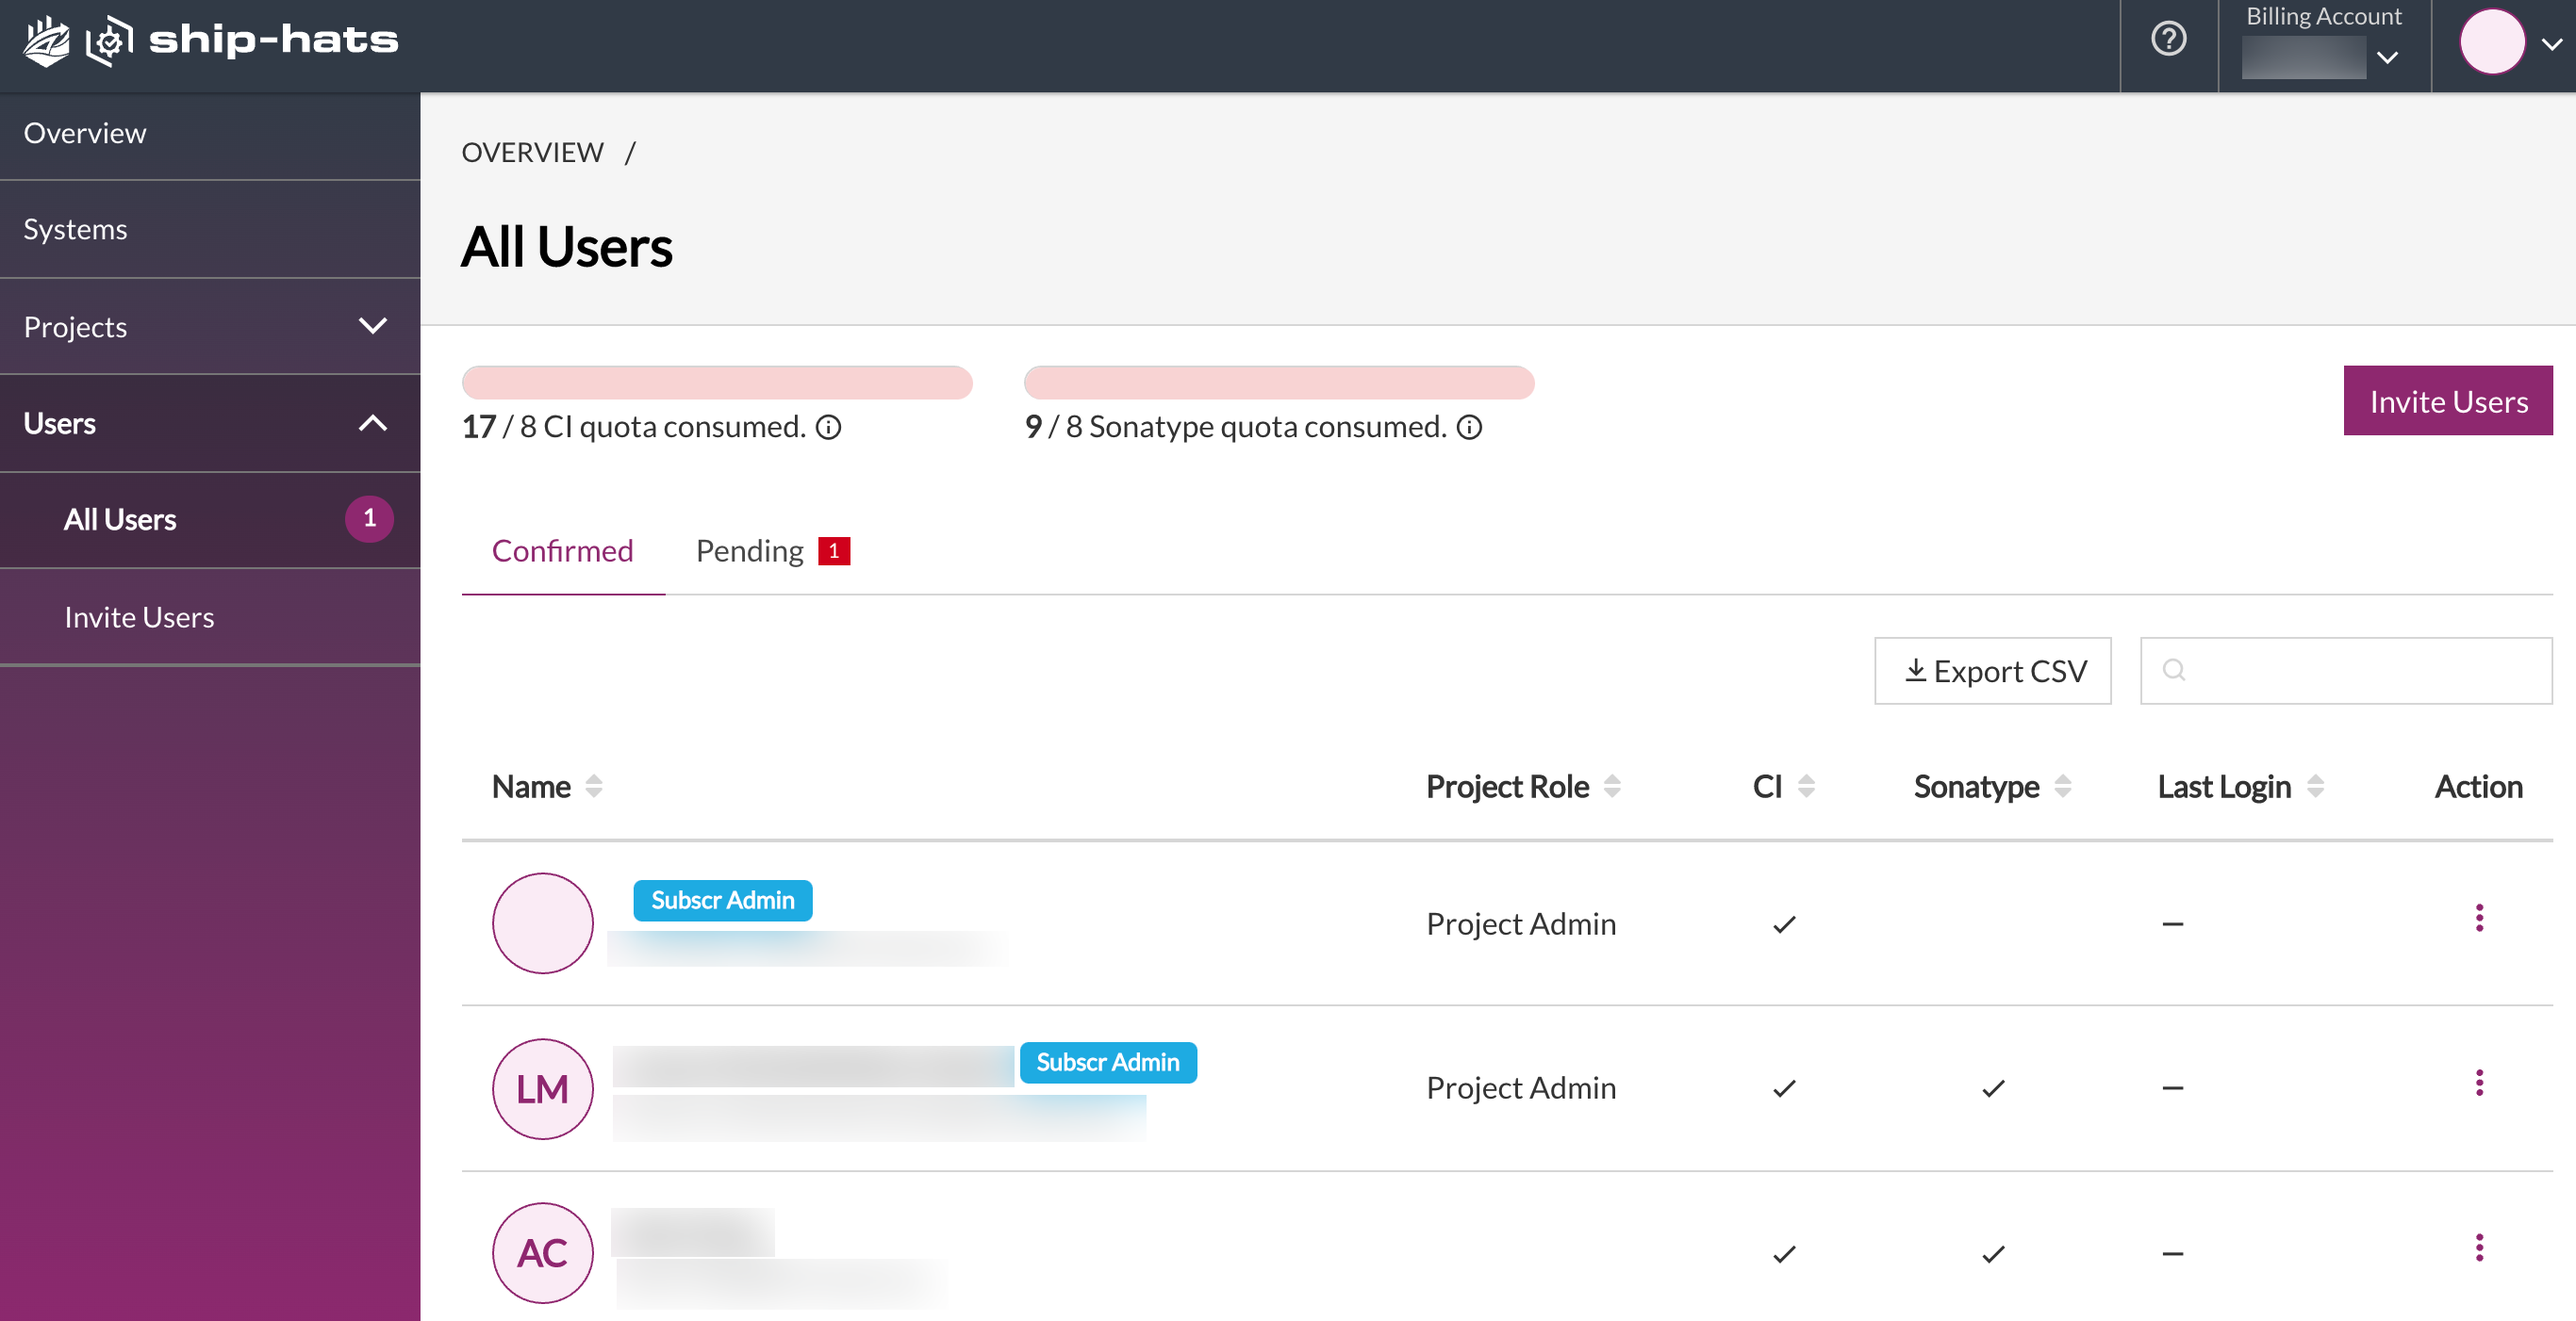
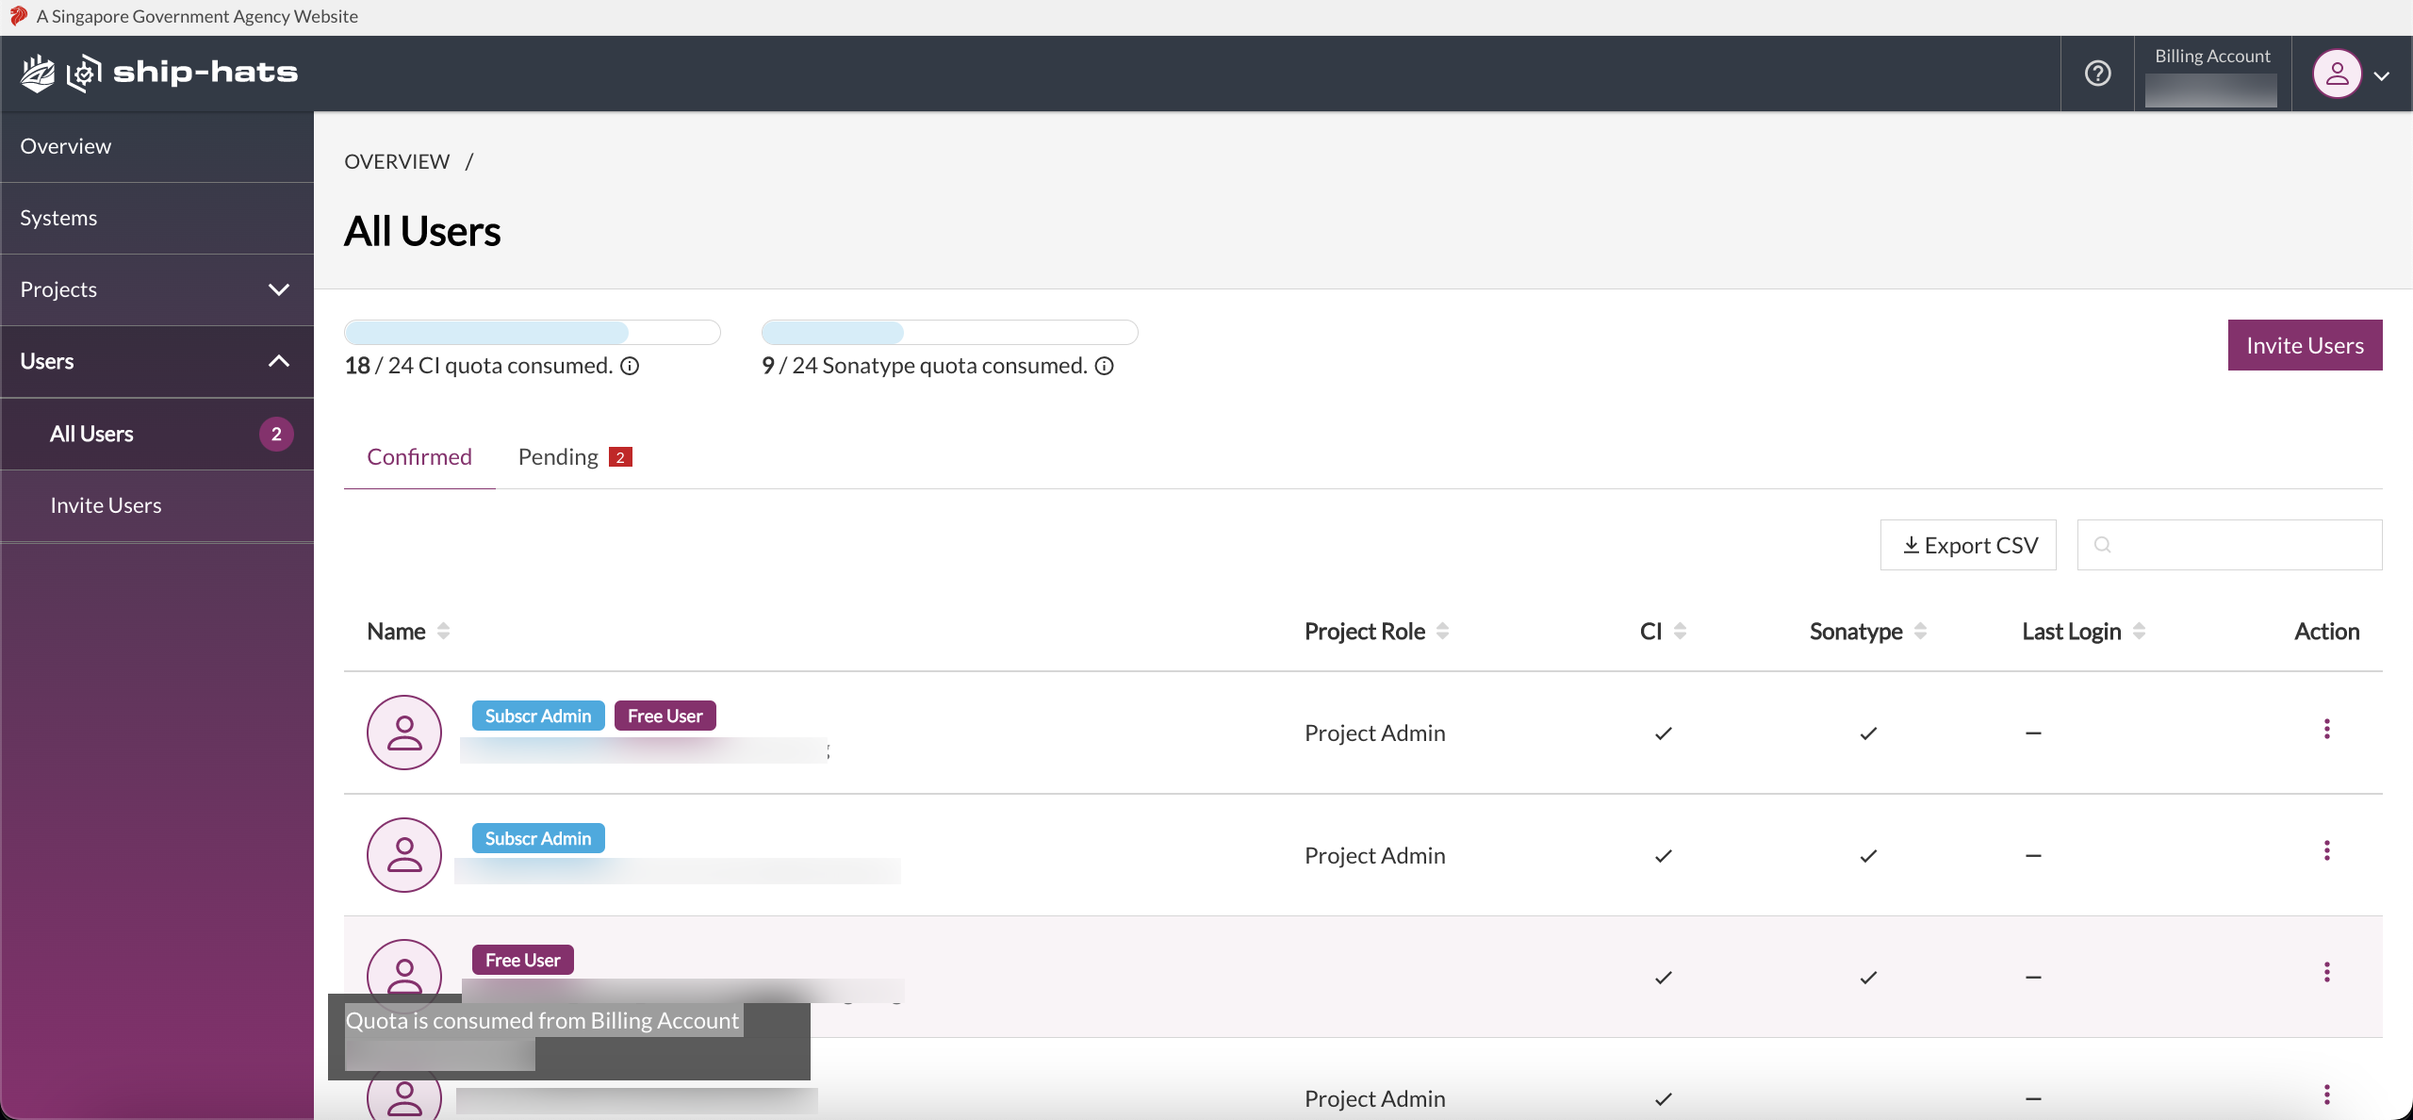
Updating images and final text based on v2.14.0

diff --git a/manage-users.md b/manage-users.md
@@ -118,15 +118,12 @@ Subscription Admin (SA) and Project Admin (PA) can view all users associated wit
 
    |Column|Description|
    |---|---|
-   **Name**|Indicates the name of the user. <br>If *First Name* and *Last Name* were not provided when creating a new user account, only email address will appear in this column.<br>If a user is a Subscription Admin, it is indicated by the label **Subscr Admin** beside the username.
-   **Project Role**|Indicates whether a user is a Project Admin.
-   **Quota consumed**|Indicates whether the user is consuming quota from the current subscription. <ul><li>If user is not consuming quota of the subscription, a tag **free user**, appears beside the name. When you hover over the tag, you can view the billing subscription under which the quota is being consumed.</li></ul>   
+   **Name**|Indicates the name of the user. <ul><li>If a user is a Subscription Admin, it is indicated by the label **Subscr Admin** beside the username.</li><li>If user is not consuming quota of the subscription, a tag **free user**, appears beside the name. When you hover over the tag, you can view the billing subscription under which the quota is being consumed.</li></ul>
+   **Project Role**|Indicates whether a user is a Project Admin.    
    **CI**| Indicates whether the user is consuming the CI tools quota from the current subscription. 
    **Sonatype**|Indicates whether the user is consuming Sonatype tools quota from the current subscription.
    **Last Login**|Indicates the date and time when the user logged in the last time.
    **Action**|Enables you to [Manage access](#manage-accessmanage-access) and [Remove User](#remove-usersremove-users).
-
-   <kbd>![all-users-new](all-users-new.png ':size=100%')</kbd>
 
    You can perform following additional functions on this screen:
    - **Sort:** You can sort this list in ascending or descending order by one of the following options:
@@ -134,13 +131,15 @@ Subscription Admin (SA) and Project Admin (PA) can view all users associated wit
       - Project Role
       - CI
       - Sonatype
-      - Quota consumed  
       - Last Login
     - **Search:** You can quickly search for a user by typing the username in the search box.
 
-       <kbd>![search_user](export-csv.png ':size=100%')</kbd>
+   <!--       <kbd>![search_user](export-csv.png ':size=100%')</kbd>-->
 
     - **Download:** If you want to download the user list as a .csv file to your local machine, click **Export CSV**. This csv lists the active and removed users along with the approval and removal details. For more details, refer to the [Generate a User Report](#generate-a-user-report) documentation.
+
+   <kbd>![all-users-new](all-users-new.png ':size=100%')</kbd>
+
 
 ## Generate a User Report
 You can generate a report to view all details for the active and removed users.
@@ -332,6 +331,7 @@ An SA and PA can view and manage all the existing user groups that are assigned 
 1. 
 
 
-
+<li>If *First Name* and *Last Name* were not provided when creating a new user account, only email address will appear in this column.</li>
+**Quota consumed**|Indicates whether the user is consuming quota from the current subscription. <ul><li>If user is not consuming quota of the subscription, a tag **free user**, appears beside the name. When you hover over the tag, you can view the billing subscription under which the quota is being consumed.</li></ul> 
 
 -->
